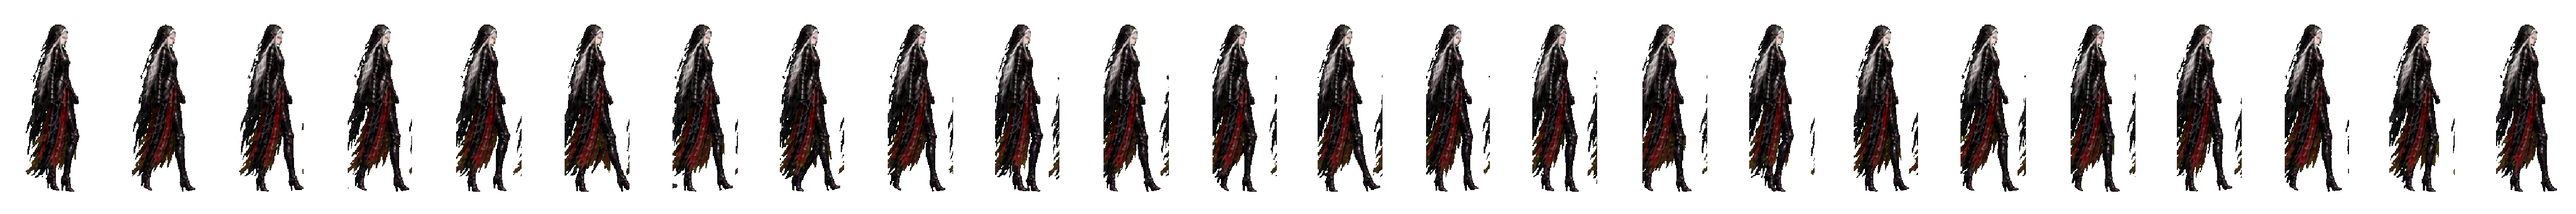
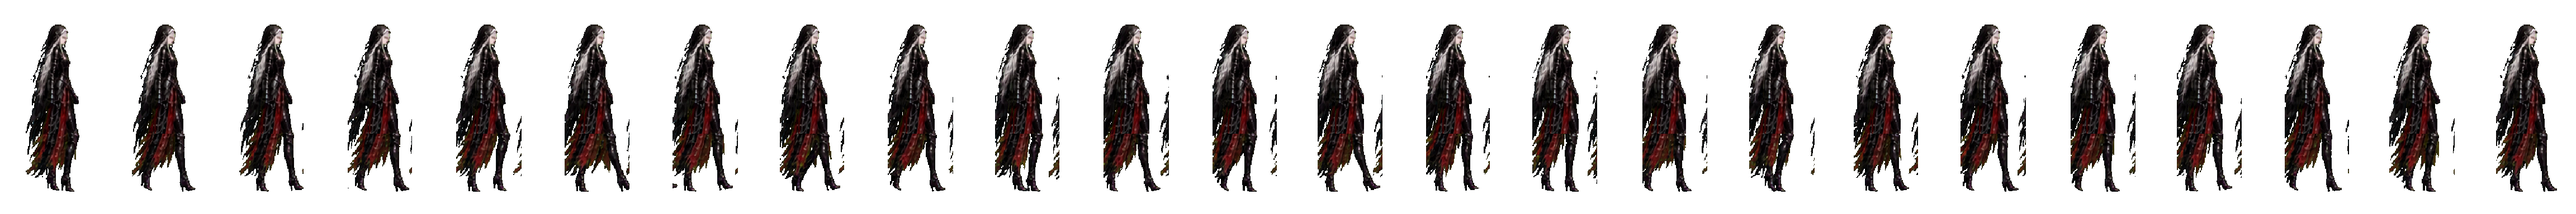
fix: stabilize player walk core

diff --git a/tools/stabilizePlayerWalkSheet.py b/tools/stabilizePlayerWalkSheet.py
@@ -1,0 +1,47 @@
+from __future__ import annotations
+
+import sys
+from pathlib import Path
+
+from generatePlayerActionSheets import decode_png, encode_png
+
+
+FRAME_WIDTH = 192
+FRAME_HEIGHT = 384
+FRAME_COUNT = 24
+WALK_SHEET = Path("assets/player-walk-sheet-24.png")
+
+STABLE_CORE = {
+    "x0": 84,
+    "x1": 136,
+    "y0": 42,
+    "y1": 240,
+}
+
+
+def main() -> None:
+    width, height, pixels = decode_png(WALK_SHEET.read_bytes())
+    expected_width = FRAME_WIDTH * FRAME_COUNT
+    if width != expected_width or height != FRAME_HEIGHT:
+        raise ValueError(f"{WALK_SHEET} must be {expected_width}x{FRAME_HEIGHT}, got {width}x{height}")
+
+    for frame in range(1, FRAME_COUNT):
+        stabilize_frame_core(pixels, width, frame)
+
+    WALK_SHEET.write_bytes(encode_png(width, height, pixels))
+
+
+def stabilize_frame_core(pixels: bytearray, sheet_width: int, frame: int) -> None:
+    source_x0 = 0
+    target_x0 = frame * FRAME_WIDTH
+    for y in range(STABLE_CORE["y0"], STABLE_CORE["y1"]):
+        for x in range(STABLE_CORE["x0"], STABLE_CORE["x1"]):
+            source = (y * sheet_width + source_x0 + x) * 4
+            if pixels[source + 3] <= 8:
+                continue
+            target = (y * sheet_width + target_x0 + x) * 4
+            pixels[target : target + 4] = pixels[source : source + 4]
+
+
+if __name__ == "__main__":
+    sys.exit(main())
